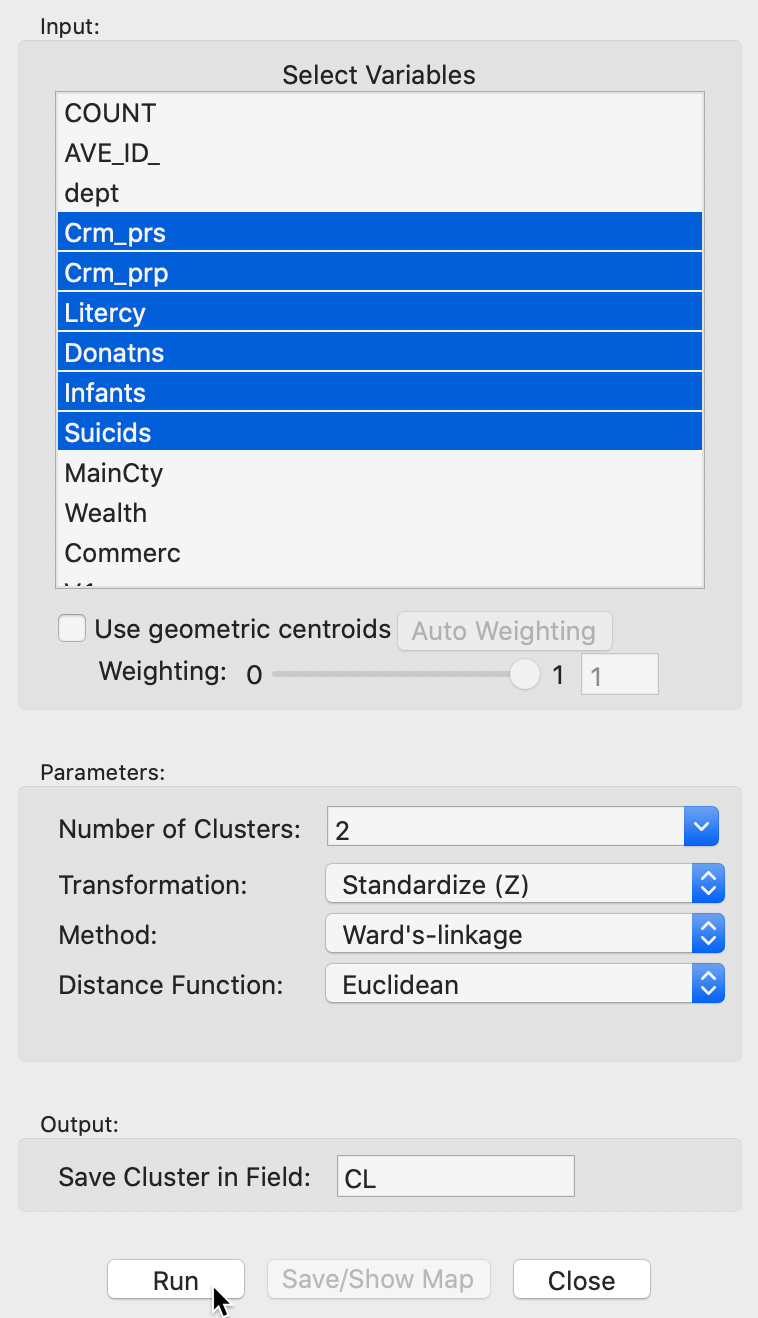
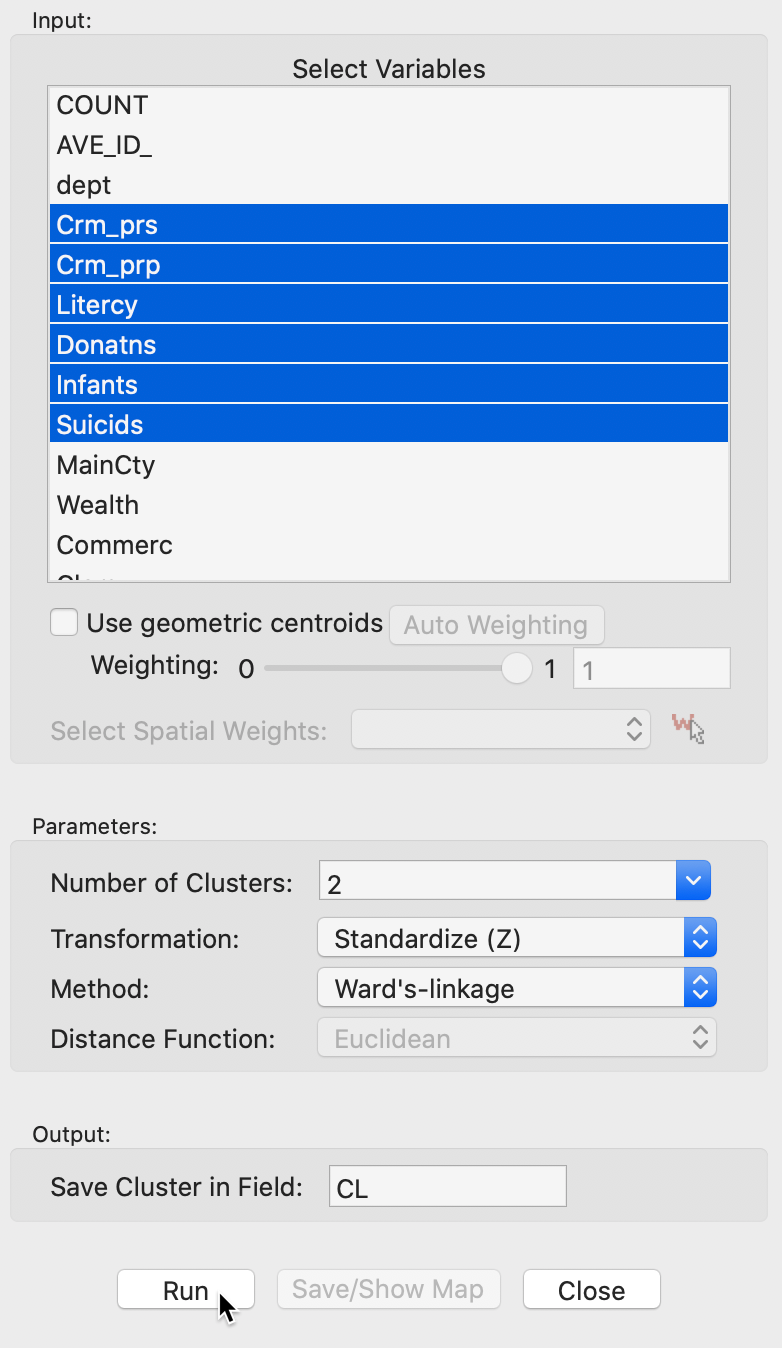
minor edits and updated screen shots hierarchical clustering

diff --git a/workbook/7bh_clusters_2a/lab7bh.html b/workbook/7bh_clusters_2a/lab7bh.html
@@ -120,7 +120,7 @@ if (window.hljs) {
 <h1 class="title toc-ignore">Cluster Analysis (2)</h1>
 <h3 class="subtitle">Hierarchical Clustering Methods</h3>
 <h4 class="author">Luc Anselin<a href="#fn1" class="footnote-ref" id="fnref1"><sup>1</sup></a></h4>
-<h4 class="date">07/18/2020 (latest update)</h4>
+<h4 class="date">07/30/2020 (latest update)</h4>
 
 
 <div id="TOC">
@@ -278,7 +278,7 @@ thus are far apart from all others.</p>
 <h3>Illustration: single linkage</h3>
 <p>To illustrate the logic of agglomerative hierarchical clustering algorithms, we use the example of
 <em>single linkage</em> applied to the same seven points as we used for k-means. For ease of reference,
-the points are shown in Figure <a href="#fig:slinkexample">1</a>.<a href="#fn4" class="footnote-ref" id="fnref4"><sup>4</sup></a> The point IDs (not shown) are ordered with increasing values of X first, then Y, starting
+the points are shown in Figure <a href="#fig:slinkexample">1</a>.<a href="#fn4" class="footnote-ref" id="fnref4"><sup>4</sup></a> As before, the point IDs are ordered with increasing values of X first, then Y, starting
 with observation 1 in the lower left corner. Full details are given in the <a href="#appendix">Appendix</a>.</p>
 <div class="figure" style="text-align: center"><span id="fig:slinkexample"></span>
 <img src="pics7b/01_points.png" alt="Single link hierarchical clustering toy example" width="35%" />
@@ -485,8 +485,10 @@ Figure 10: Hierarchical clustering variable selection
 </p>
 </div>
 <p>The panel also allows one to set the usual options, such as the <strong>Transformation</strong> (default value
-is a standardized z-value), the linkage <strong>Method</strong> (default is <strong>Ward’s linkage</strong>), and the
-<strong>Distance Function</strong> (default is <strong>Euclidean</strong>). In the same way as for k-means, the cluster
+is a standardized z-value), and the linkage <strong>Method</strong> (default is <strong>Ward’s linkage</strong>). The
+<strong>Distance Function</strong> option is not available for the default <strong>Ward’s linkage</strong> shown here (only <strong>Euclidean</strong>
+distance is allowed for this linkage), However, <strong>Manhattan</strong> distance is an option for
+the other linkage methods. In the same way as for k-means, the cluster
 classification is saved in the data table under the variable name specified in
 <strong>Save Cluster in Field</strong>.</p>
 </div>
